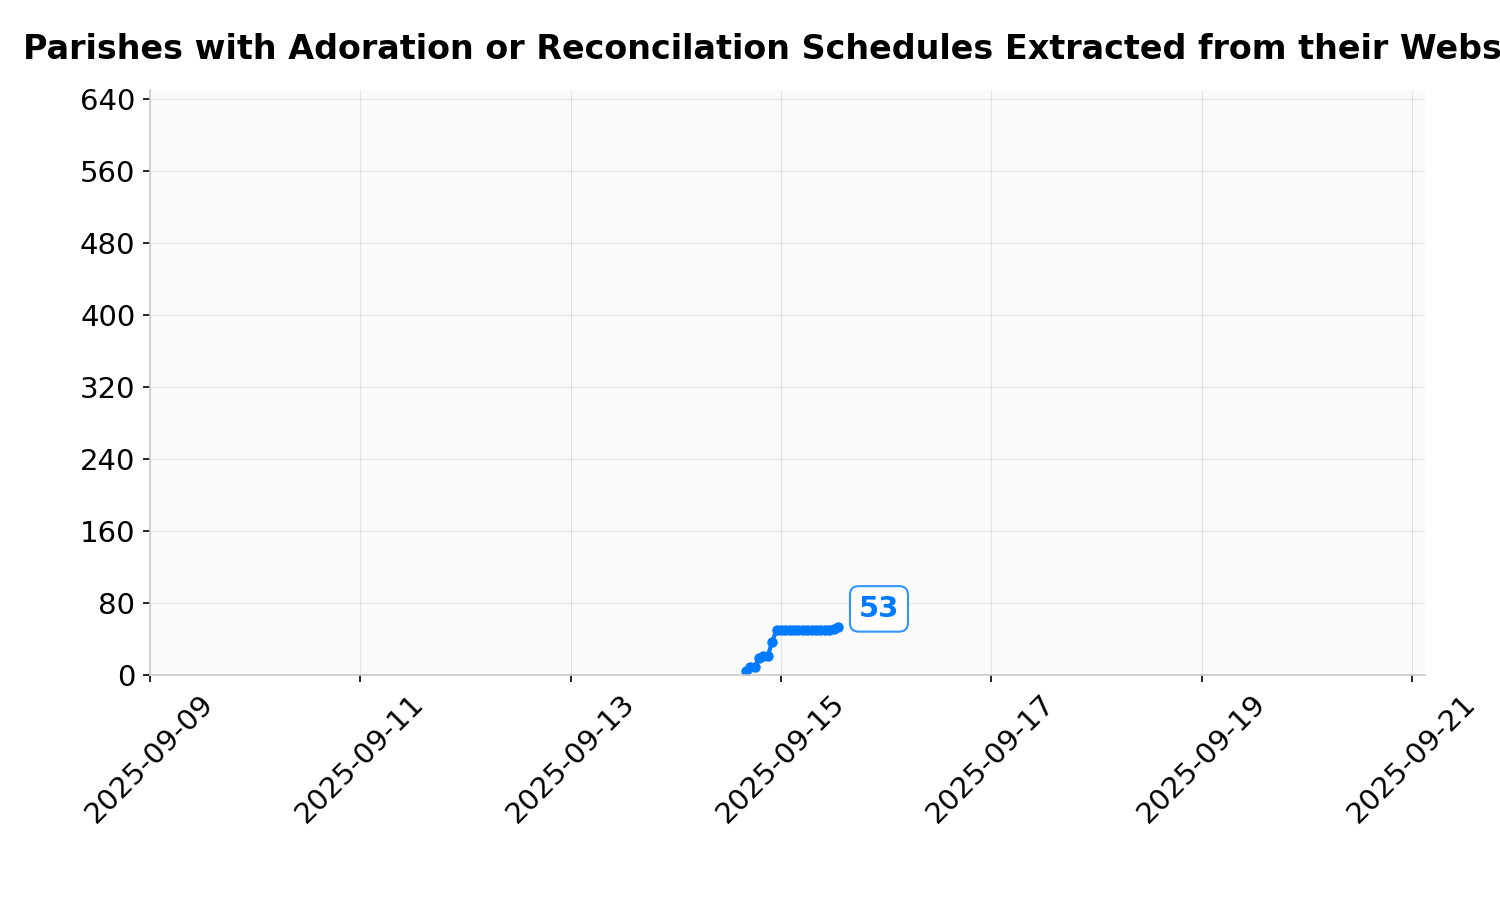
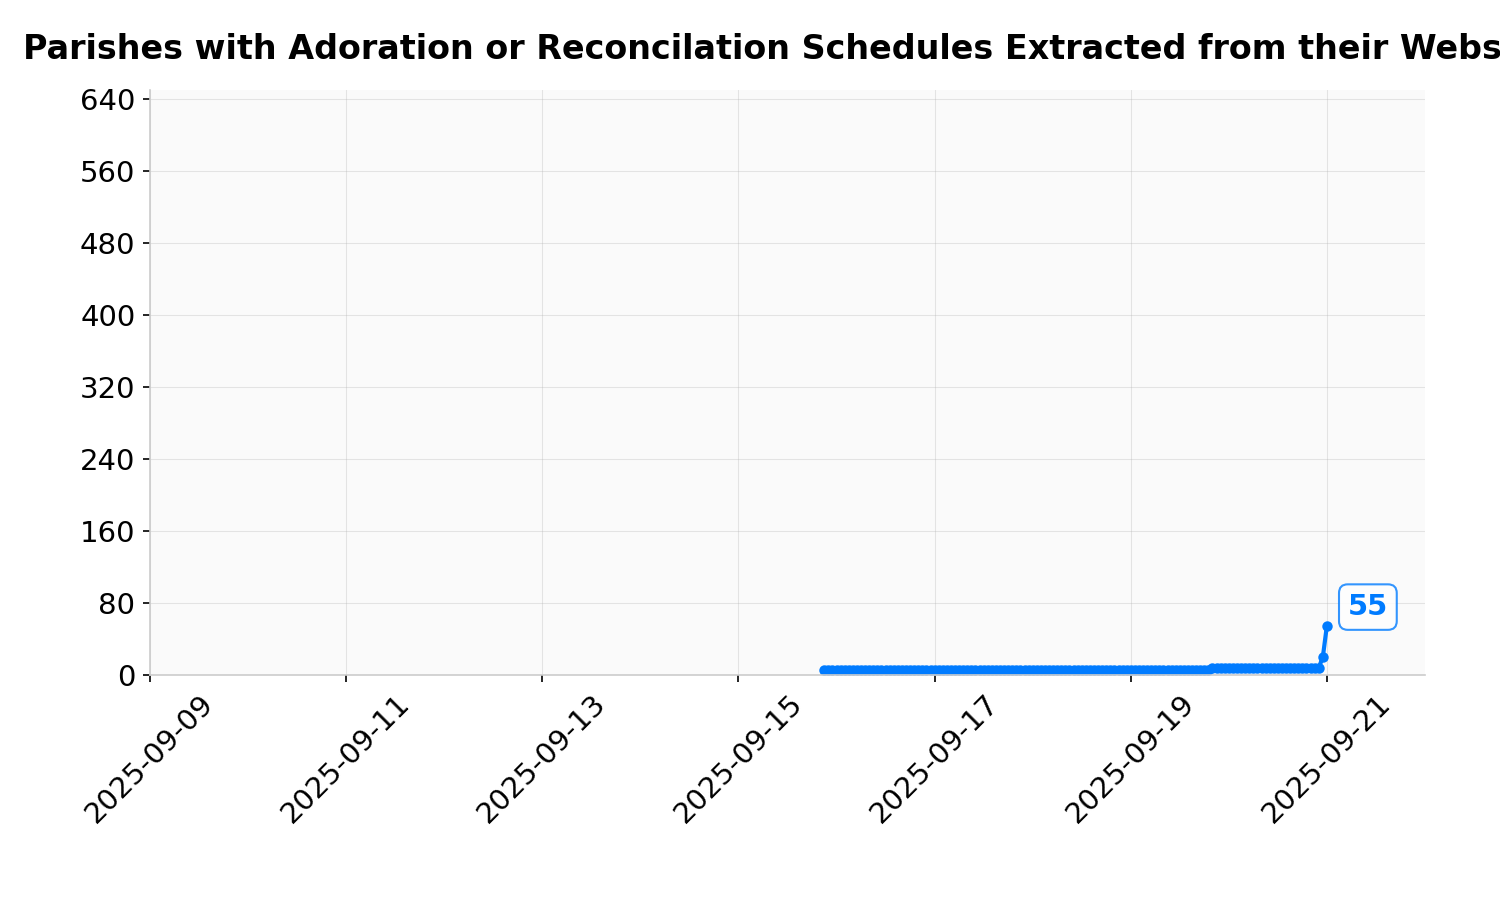
Fix ParishData chart to use updated_at instead of created_at
- Add updated_at field processing to report_statistics.py
- Prioritize updated_at over created_at for ParishData table since schedule extractions update existing records
- Update all dashboard charts with latest data from diocese 2024 pipeline run
- ParishData chart now correctly shows recent schedule extraction activity

🤖 Generated with [Claude Code](https://claude.ai/code)

diff --git a/report_statistics.py b/report_statistics.py
@@ -37,6 +37,9 @@ def fetch_and_process_table(table_name: str, supabase_client: Client):
         if 'created_at' in df.columns:
             df['created_at'] = pd.to_datetime(df['created_at'], utc=True, errors='coerce')
             date_cols.append('created_at')
+        if 'updated_at' in df.columns:
+            df['updated_at'] = pd.to_datetime(df['updated_at'], utc=True, errors='coerce')
+            date_cols.append('updated_at')
         if 'extracted_at' in df.columns:
             df['extracted_at'] = pd.to_datetime(df['extracted_at'], format='ISO8601', utc=True, errors='coerce')
             date_cols.append('extracted_at')
@@ -50,6 +53,10 @@ def fetch_and_process_table(table_name: str, supabase_client: Client):
 
         # Exclude 'created_at' for specific tables as per request
         if table_name in ['Dioceses', 'Parishes'] and 'created_at' in date_cols:
+            date_cols.remove('created_at')
+
+        # For ParishData, prioritize updated_at over created_at since schedule extractions update existing records
+        if table_name == 'ParishData' and 'updated_at' in date_cols and 'created_at' in date_cols:
             date_cols.remove('created_at')
 
         # Aggregate data by date with dual granularity
